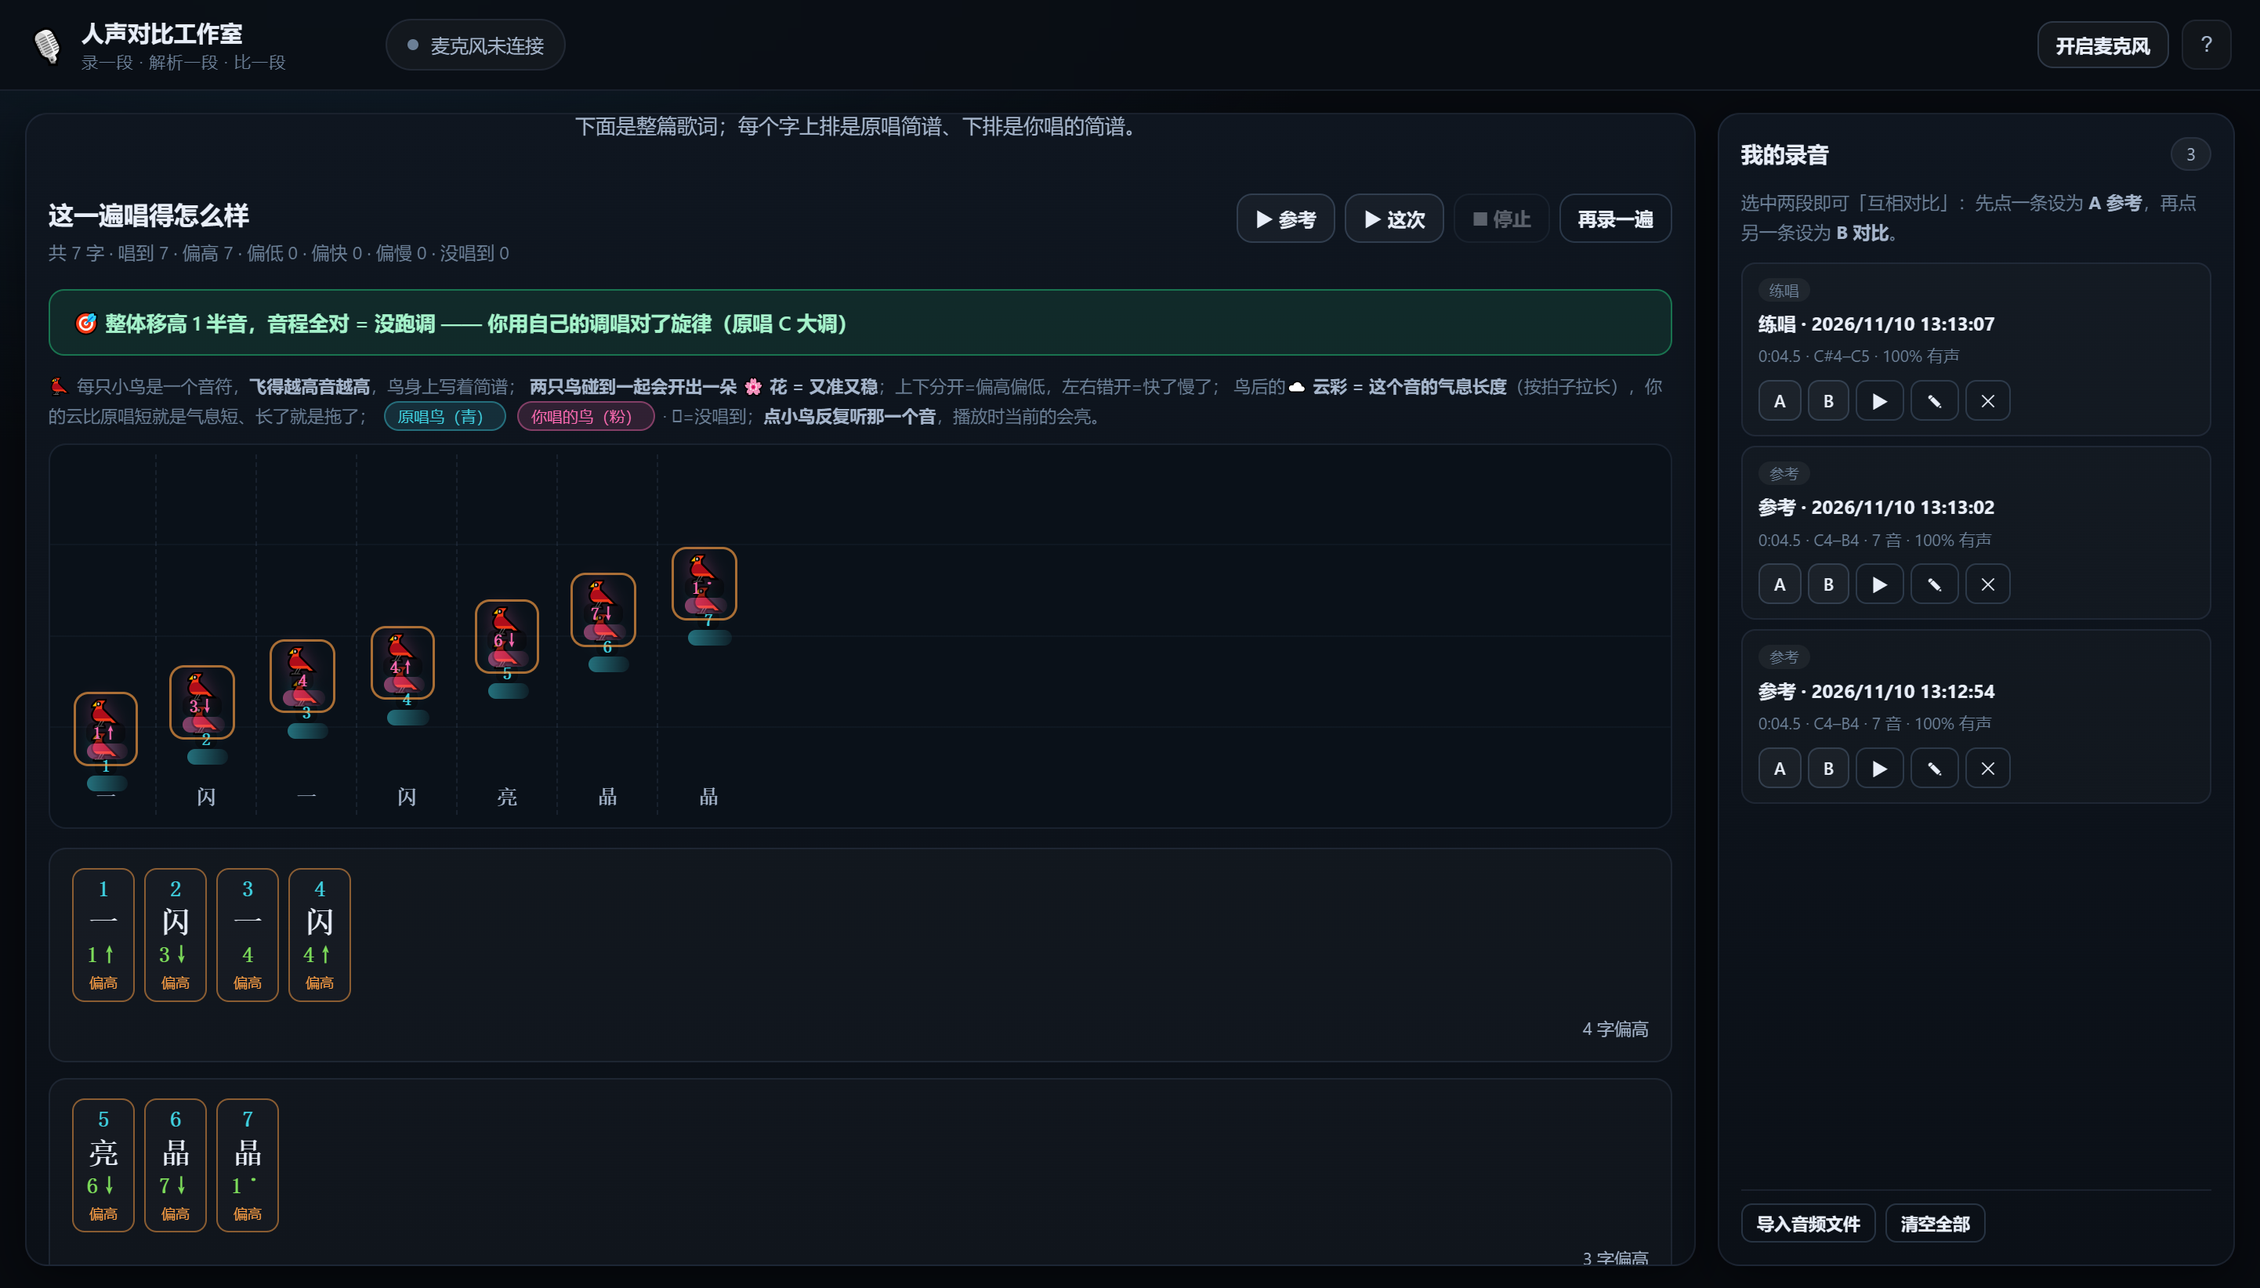
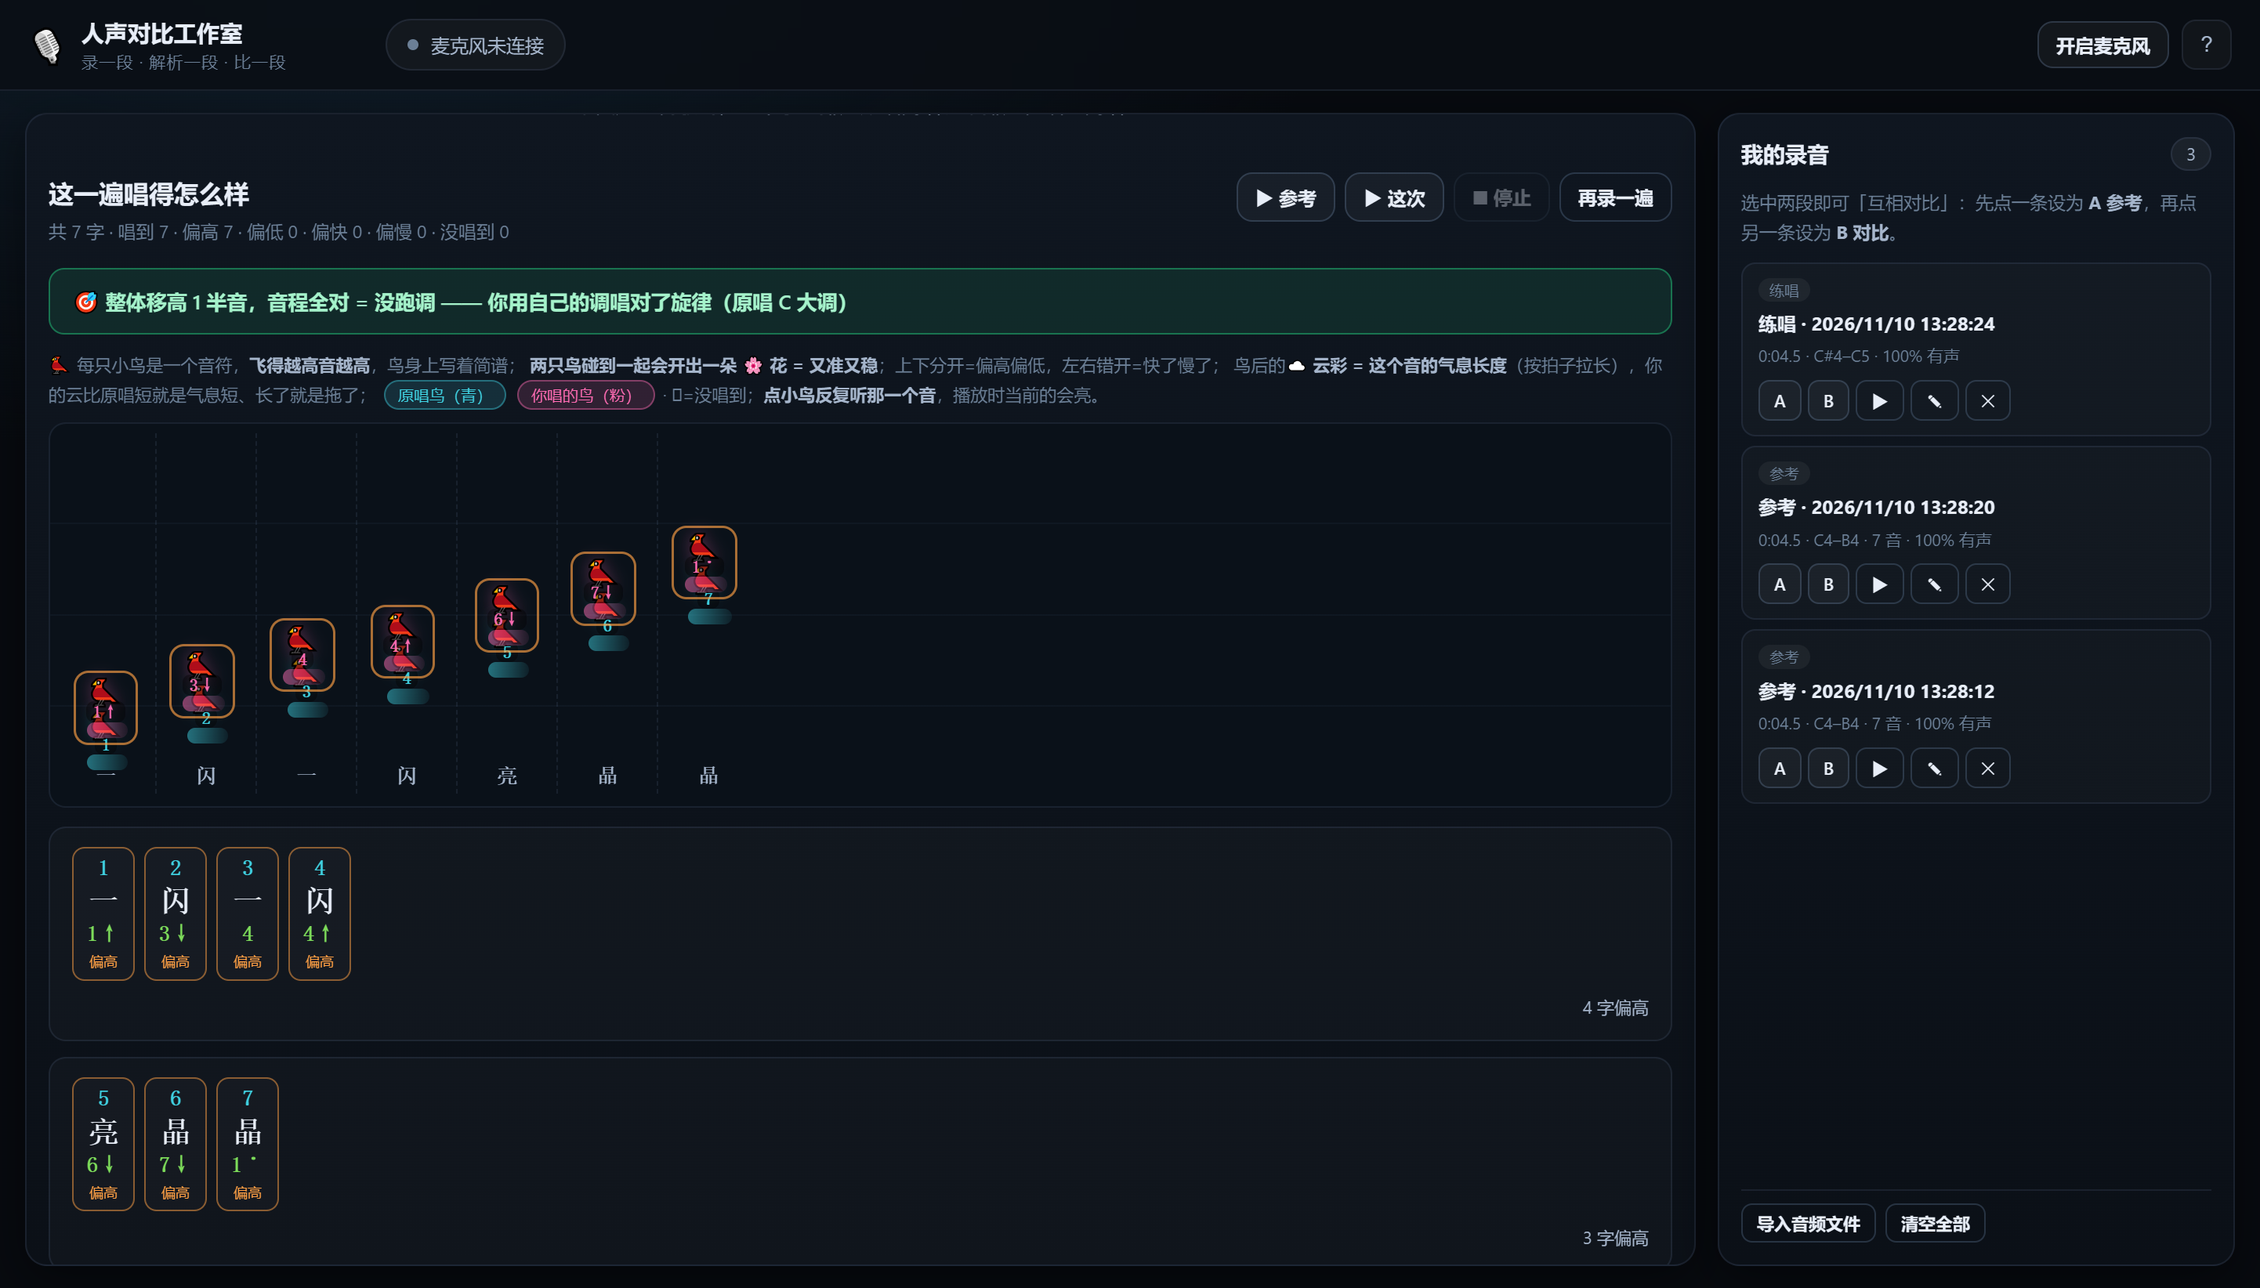
fix: 重新解析匹配两步分离——先字↔音符一一对应(charMap流式钉字,第一性),再按用户标点句数排版(lineBreaks,美观在后);排版不再破坏对应

diff --git a/web/js/lyrics.js b/web/js/lyrics.js
@@ -347,111 +347,167 @@ export function alignTextToPhrases(text, lineNoteCounts) {
 /* ────────────── 节奏感知的「重新解析匹配」 ────────────── */
 
 /**
- * 把用户改过的歌词，按第一次录音解析出的「节奏骨架」重新钉到每个音符上。
+ * 把用户改过的歌词钉到音符序列上 —— 两步分离：
  *
- * 分句优先级（谁先命中用谁）：
- *   1. **用户标点分句**：歌词里写「一闪一闪，亮晶晶。」——逗号/句号/问号等
- *      就是分句指令，每个标点 = 一句谱（排版照用户断句走）
- *   2. 用户手动换行且行数正好 = 乐句数 → 尊重用户分行
- *   3. 连续歌词按【每句实际演唱时长】占比切分（按节奏，不是按音符数）
+ *  第一步【第一性：字↔音符一一对应】
+ *    把所有可唱字按「每句字数 : 每句音符数」+ 句时长权重，流式分配到音符流上。
+ *    每个字找到它该在的音符；字多并进长音，字少补 ○。这一步与排版无关。
  *
- * 句内字数 > 音符数：多出的字并进【时值最长】的音符（长音拖字/转音）
- * 字数 ≤ 音符数：一字一音符，其余补 ○（用户可在逐格编辑器里补字）
- *
- * 输出 charMap 是"按音符全局顺序展平的字数组"，可直接喂给
- * buildScore(notes, key, text, { charMap })，保证"哪个字对应哪个音符"精确可查。
+ *  第二步【排版：按用户标点分行】（buildScore 的 lineBreaks 参数消费）
+ *    用户写了 N 个标点句 → 音符流被切成 N 行。切点按"每行音符数 ≈ 该句字数
+ *    按时长权重摊到的音符数"求出，只影响好看，不碰第一步的对应关系。
  *
  * @param {string} text 用户歌词框里的文本（可含换行和标点）
- * @param {Array<Array>} groups groupPhrases(notes) 的结果，音符含 start/end
- * @returns {{text:string, charMap:Array<string>, perLine:Array<Array<string>>,
- *            phraseCount:number, totalChars:number, noteCount:number,
- *            byPunctuation:boolean, userPhrases:number}}
+ * @param {Array<Array>} groups groupPhrases(notes) 的结果（提供音符流与时长权重）
+ * @returns {{charMap:Array<string>, lineBreaks:Array<number>, text:string,
+ *            perLine:Array<Array<string>>, userPhrases:number,
+ *            totalChars:number, noteCount:number, byPunctuation:boolean}}
  */
 export function realignLyricsToScore(text, groups, opts = {}) {
   const g = groups || [];
   const noteCount = g.reduce((s, x) => s + x.length, 0);
   if (!noteCount) {
-    return { text: '', charMap: [], perLine: [], phraseCount: 0, totalChars: 0, noteCount: 0,
-      byPunctuation: false, userPhrases: 0 };
+    return { charMap: [], lineBreaks: [], text: '', perLine: [], userPhrases: 0,
+      totalChars: 0, noteCount: 0, byPunctuation: false };
   }
 
-  // 1) 清洗用户输入：按行收集可唱字符，丢掉空行 / 纯占位行
+  // 1) 收集用户的句子：标点优先，其次手动换行，最后整段当一句
+  const punctSplit = splitByPunctuation(String(text || ''));
   const raw = String(text || '').replace(/\r\n?/g, '\n').split('\n')
     .map((l) => cleanLyricChars(l))
     .filter((cs) => cs.length && !cs.every((c) => c === '○'));
+  const sentences = punctSplit.length > 1 ? punctSplit
+    : (raw.length > 1 ? raw : [cleanLyricChars(String(text || ''))]);
+  const userPhrases = sentences.length;
 
-  // 1.5) 标点分句：用户在歌词里写的逗号/句号/问号/叹号/顿号 = 分句指令
-  const punctSplit = splitByPunctuation(String(text || ''), g.length);
-  const usePunct = punctSplit.length > 1 && punctSplit.length <= g.length + 1;
+  // 2) 【第一性】把所有字流式钉到音符流上：
+  //    每个音符的"应得字数" = 总字数 × (该音符时长权重)，累计取整生成容量表，
+  //    字按顺序填进容量里 —— 音程对应关系天然正确，与句子怎么分无关。
+  const flatNotes = g.flat();
+  const chars = sentences.flat();
+  const totalChars = chars.length;
+  const capacities = noteCapacities(flatNotes, totalChars);
 
-  // 2) 每句的节奏权重 = 该句实际演唱跨度（时长），不是音符个数
+  const charMap = new Array(noteCount).fill('○');
+  let ci = 0;
+  for (let ni = 0; ni < noteCount && ci < totalChars; ni++) {
+    const cap = capacities[ni];
+    if (cap <= 0) continue;
+    charMap[ni] = chars.slice(ci, ci + cap).join('');
+    ci += cap;
+  }
+  // 字比音符多且容量吃满还剩 → 并进最后一个有字音符
+  if (ci < totalChars) {
+    const last = Math.max(0, noteCount - 1);
+    charMap[last] = charMap[last] === '○' ? '' : charMap[last];
+    charMap[last] += chars.slice(ci).join('');
+  }
+
+  // 3) 【排版】按用户句数求行切点：每句音符数 ≈ 该句字数 × 时长权重
   const spans = g.map((line) => {
     const st = Math.min(...line.map((n) => n.start));
     const en = Math.max(...line.map((n) => n.end ?? n.start + 0.5));
     return Math.max(0.01, en - st);
   });
   const totalSpan = spans.reduce((a, b) => a + b, 0) || 1;
+  const lineBreaks = computeLineBreaks(sentences, g, spans, totalSpan);
 
-  // 3) 字符分配到各句
-  let perLineChars;
-  let byPunctuation = false;
-  if (usePunct) {
-    // 标点优先：一个标点一句；若标点句数 ≤ 乐句数，多余的乐句并进最后一句
-    byPunctuation = true;
-    perLineChars = punctSplit.slice(0, g.length);
-    while (perLineChars.length < g.length) {
-      const tail = perLineChars.pop();
-      perLineChars.push(tail, []);
-    }
-    // 若标点句数 > 乐句数：超出的句并进最后一句
-    if (punctSplit.length > g.length) {
-      perLineChars = punctSplit.slice(0, g.length - 1)
-        .concat([punctSplit.slice(g.length - 1).flat()]);
-    }
-  } else if (raw.length === g.length) {
-    // 用户手动分的行数正好等于乐句数 → 尊重用户分句
-    perLineChars = raw.slice(0, g.length);
-  } else {
-    // 连续文本 / 行数不符 → 按演唱时长占比切分（按节奏）
-    const chars = raw.flat();
-    perLineChars = [];
-    let ci = 0;
-    for (let i = 0; i < g.length; i++) {
-      let take = i === g.length - 1
-        ? chars.length - ci
-        : Math.max(1, Math.round((spans[i] / totalSpan) * chars.length));
-      take = Math.min(Math.max(take, 0), Math.max(0, chars.length - ci));
-      perLineChars.push(chars.slice(ci, ci + take));
-      ci += take;
-    }
+  // 4) 供显示的 perLine / text（排版后的行）
+  const perLine = [];
+  let si = 0;
+  for (let li = 0; li < lineBreaks.length; li++) {
+    const end = lineBreaks[li];
+    const seg = charMap.slice(si, end);
+    perLine.push(seg);
+    si = end;
   }
-
-  // 4) 句内把字符钉到每个音符
-  const perLine = g.map((line, i) => assignCharsToNotes(perLineChars[i] || [], line));
-  const charMap = perLine.flat();
   const outText = perLine.map((cs) => cs.join('')).join('\n');
 
   return {
-    text: outText,
     charMap,
+    lineBreaks,
+    text: outText,
     perLine,
-    phraseCount: g.length,
-    totalChars: raw.flat().length,
+    userPhrases,
+    totalChars,
     noteCount,
-    byPunctuation,
-    userPhrases: usePunct ? punctSplit.length : 0,
+    byPunctuation: punctSplit.length > 1,
   };
+}
+
+/**
+ * 每个音符的"应得字数"容量表：总字数按音符时长占比摊到每个音符上，
+ * 累计取整保证 Σcap = min(totalChars, noteCount) 且容量分布平滑。
+ * 长音天然分到更多字（拖字/转音），短音一字一音。
+ */
+function noteCapacities(flatNotes, totalChars) {
+  const n = flatNotes.length;
+  if (totalChars <= n) return flatNotes.map((_, i) => (i < totalChars ? 1 : 0));
+  const durs = flatNotes.map((nt) => Math.max(0.02, (nt.end ?? nt.start + 0.5) - nt.start));
+  const totalDur = durs.reduce((a, b) => a + b, 0) || 1;
+  const caps = [];
+  let acc = 0;   // 已分配字数（浮点累计）
+  let got = 0;   // 已取整字数
+  for (let i = 0; i < n; i++) {
+    acc += (durs[i] / totalDur) * totalChars;
+    const c = Math.round(acc) - got;   // 这一音分到的字数
+    caps.push(Math.max(1, c));
+    got += caps[i];
+  }
+  // 修正取整误差：多退少补到 totalChars
+  let diff = got - totalChars;
+  let i = n - 1;
+  while (diff !== 0 && i >= 0) {
+    if (diff > 0 && caps[i] > 1) { caps[i]--; diff--; }
+    else if (diff < 0) { caps[i]++; diff++; }
+    else i--;
+  }
+  return caps;
+}
+
+/**
+ * 按用户句数求排版行切点（音符全局索引数组，升序，末项=noteCount）。
+ * 每行音符数 ≈ 该句字数 × (乐句时长权重)，在原乐句边界附近微调，
+ * 保证切点落在音符流上、行数正好等于用户句数。
+ */
+function computeLineBreaks(sentences, groups, spans, totalSpan) {
+  const noteCount = groups.reduce((s, x) => s + x.length, 0);
+  const K = sentences.length;
+  if (K <= 1) return [noteCount];
+
+  // 每个用户句分到的理想音符数
+  const totalSentenceChars = Math.max(1, sentences.reduce((a, x) => a + x.length, 0));
+  const want = sentences.map((s, k) => {
+    const byChars = s.length / totalSentenceChars;
+    const bySpan = spans[Math.min(k, spans.length - 1)] / totalSpan;
+    return k === K - 1
+      ? 0 // 末句吃余数
+      : Math.max(1, Math.round(noteCount * (0.6 * byChars + 0.4 * bySpan)));
+  });
+  const breaks = [];
+  let acc = 0;
+  for (let k = 0; k < K - 1; k++) {
+    acc += want[k];
+    // 夹在 [acc-2, acc+2] 且落在音频乐句边界附近（偏移 ≤1 个音符）最优，
+    // 但不强制——排版美观优先于乐句边界
+    breaks.push(Math.min(Math.max(1, acc), noteCount - (K - 1 - k)));
+  }
+  // 保证递增且末项 = noteCount
+  for (let k = 1; k < breaks.length; k++) {
+    if (breaks[k] <= breaks[k - 1]) breaks[k] = breaks[k - 1] + 1;
+  }
+  breaks.push(noteCount);
+  return breaks;
 }
 
 /** 按用户歌词里的标点切句：返回每句的可唱字符数组。
  *  「一闪一闪，亮晶晶。」→ [['一','闪','一','闪'], ['亮','晶','晶']]
  *  没有任何分句标点时返回 []。 */
-function splitByPunctuation(text, maxPhrases) {
+function splitByPunctuation(text) {
   const PUNCT_RE = /[，。！？、；：,.!?;:…—~～]/;
   const parts = String(text || '').replace(/\r\n?/g, '\n').split(PUNCT_RE)
     .map((seg) => cleanLyricChars(seg))
     .filter((cs) => cs.length && !cs.every((c) => c === '○'));
-  // 只有 1 段 = 没写标点；段数超多也交给 maxPhrases 截断
   return parts.length > 1 ? parts : [];
 }
 

diff --git a/web/js/app.js b/web/js/app.js
@@ -50,6 +50,7 @@ const S = {
   lyricText: '',        // 用户编辑的歌词（按行）
   score: null,          // buildScore 结果（逐字谱）
   charMap: null,        // 按音符全局顺序的逐字歌词（精确钉字）
+  lineBreaks: null,     // 按用户标点的排版行切点（音符全局索引）
   groups: null,         // groupPhrases(parsed.notes) 结果（节奏骨架，重排用）
   lyricsDraft: '',      // 编辑框里的草稿（未确定）
   lyricsConfirmed: false,
@@ -553,16 +554,18 @@ function realignLyrics() {
   const r = realignLyricsToScore(text, S.groups);
   if (!r.charMap.length) { toast('歌词是空的，先填点字', 'err'); return; }
   S.charMap = r.charMap;
+  S.lineBreaks = r.lineBreaks;
   S.lyricsDraft = r.text;
   el.lyricEditor.value = r.text;
-  S.score = buildScore(S.parsed.notes, S.key, r.text, { charMap: S.charMap });
+  // 两步分离：charMap = 字↔音符对应（第一性），lineBreaks = 按用户标点排版（美观）
+  S.score = buildScore(S.parsed.notes, S.key, r.text, { charMap: S.charMap, lineBreaks: S.lineBreaks });
   S.lyricsConfirmed = false;
   renderJianpuSheet();
   renderCellEditor();
   el.scoreInfo.textContent = `${S.key.jianpuKey} · ${S.score.noteCount} 个音 · ${S.score.lines.length} 句`;
-  el.lyricStatus.textContent = `✓ 已按原声节奏重新匹配：${r.totalChars} 字分到 ${r.phraseCount} 句 / ${r.noteCount} 个音符，请逐格核对后点「确定歌词」`;
+  el.lyricStatus.textContent = `✓ 已重新匹配：${r.totalChars} 字 ↔ ${r.noteCount} 个音符一一对应，按你的 ${r.userPhrases} 句标点排版，请逐格核对后点「确定歌词」`;
   el.lyricStatus.className = 'lyric-status ok';
-  toast('已按节奏重新匹配到简谱', 'ok');
+  toast('字音一一对应完成，已按你的标点排版', 'ok');
   return r;
 }
 
@@ -574,10 +577,11 @@ function confirmLyrics() {
   if (!S.charMap || S.charMap.length !== S.parsed.notes.length) {
     const r = realignLyricsToScore(S.lyricText, S.groups);
     S.charMap = r.charMap.length ? r.charMap : scoreCharMap(S.score);
+    S.lineBreaks = r.lineBreaks;
   }
   S.lyricText = charMapToText(S.score, S.charMap);
   S.lyricsConfirmed = true;
-  S.score = buildScore(S.parsed.notes, S.key, S.lyricText, { charMap: S.charMap });
+  S.score = buildScore(S.parsed.notes, S.key, S.lyricText, { charMap: S.charMap, lineBreaks: S.lineBreaks });
   renderJianpuSheet();
   renderCellEditor();
   el.lyricEditor.value = S.lyricText;
@@ -1132,7 +1136,7 @@ async function comparePair() {
   S.lastPractice = { ...r, byLine: groupWordsByLine(r.words), align: r.align };
   S.lastPair = { a, b };
   S.refVocal = va; S.parsed = parsed; S.key = key; S.score = score; S.lyricText = lyricText;
-  S.groups = groups; S.charMap = scoreCharMap(score); S.lyricsConfirmed = false;
+  S.groups = groups; S.charMap = scoreCharMap(score); S.lineBreaks = null; S.lyricsConfirmed = false;
   S.refBlob = await getVocalAudio(a).catch(() => null);
   renderResult();
   S.phase = 'result';
@@ -1197,7 +1201,7 @@ function resetToIdle() {
   stopBirdGlow();
   S.phase = 'idle';
   S.refVocal = null; S.refBlob = null; S.parsed = null; S.key = null; S.score = null; S.lyricText = '';
-  S.charMap = null; S.groups = null;
+  S.charMap = null; S.lineBreaks = null; S.groups = null;
   S.lyricsDraft = ''; S.lyricsConfirmed = false; S.speechText = ''; S.speech = null;
   setStep(1);
   el.heroIcon.textContent = '🎤';

diff --git a/web/js/notation.js b/web/js/notation.js
@@ -226,16 +226,32 @@ export function buildScore(notes, key, lyricText, opts = {}) {
 
   // 给每个音符标上全局序号，切句后仍能取回它对应的简谱符号
   const indexed = notes.map((n, gi) => ({ ...n, _gi: gi }));
-  const groups = groupPhrases(indexed, {
-    gapSec: opts.gapSec ?? 0.42,
-    maxPerLine: opts.maxPerLine ?? 8,
-  });
   const inputLines = String(lyricText || '').split(/\r?\n/);
   // charMap：按【音符全局顺序】给出的逐字歌词（realignLyricsToScore 的产物）。
   // 传了它就以它为准 —— 这样"哪个字对应哪个音符"是精确钉死的，
   // 而不是靠文本换行重新猜一遍。
   const charMap = Array.isArray(opts.charMap) && opts.charMap.length >= notes.length
     ? opts.charMap : null;
+  // lineBreaks：按【音符全局索引】的排版行切点（升序，末项=notes.length）。
+  // 这是"美观点"——用户按标点断句，谱子就按他的断句排版；
+  // 优先级高于音频空档切句，且不碰 charMap 的对应关系。
+  const lineBreaks = Array.isArray(opts.lineBreaks) && opts.lineBreaks.length &&
+    opts.lineBreaks[opts.lineBreaks.length - 1] === notes.length ? opts.lineBreaks : null;
+
+  // 组行：优先用 lineBreaks（用户排版），否则退回音频空档切句
+  const groups = [];
+  if (lineBreaks) {
+    let s = 0;
+    for (const end of lineBreaks) {
+      groups.push(indexed.slice(s, end));
+      s = end;
+    }
+  } else {
+    groups.push(...groupPhrases(indexed, {
+      gapSec: opts.gapSec ?? 0.42,
+      maxPerLine: opts.maxPerLine ?? 8,
+    }));
+  }
 
   const lines = groups.map((group, li) => {
     let assigned;
